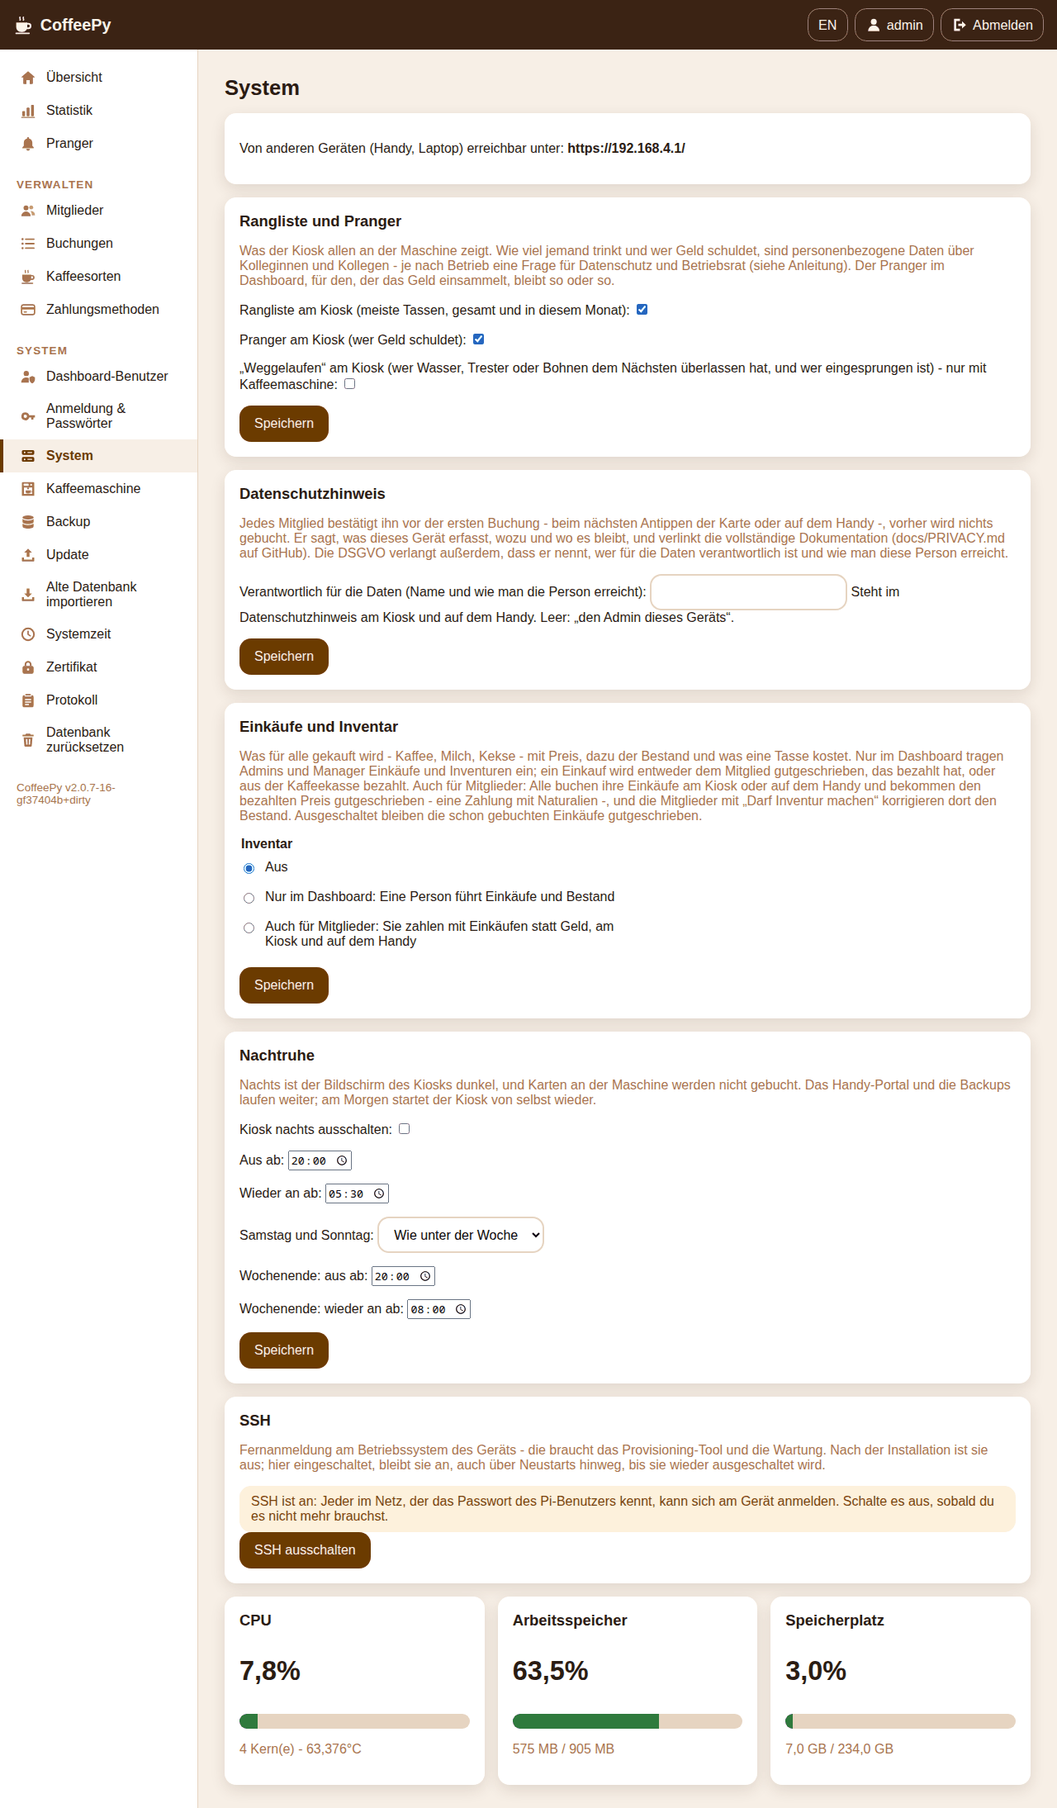
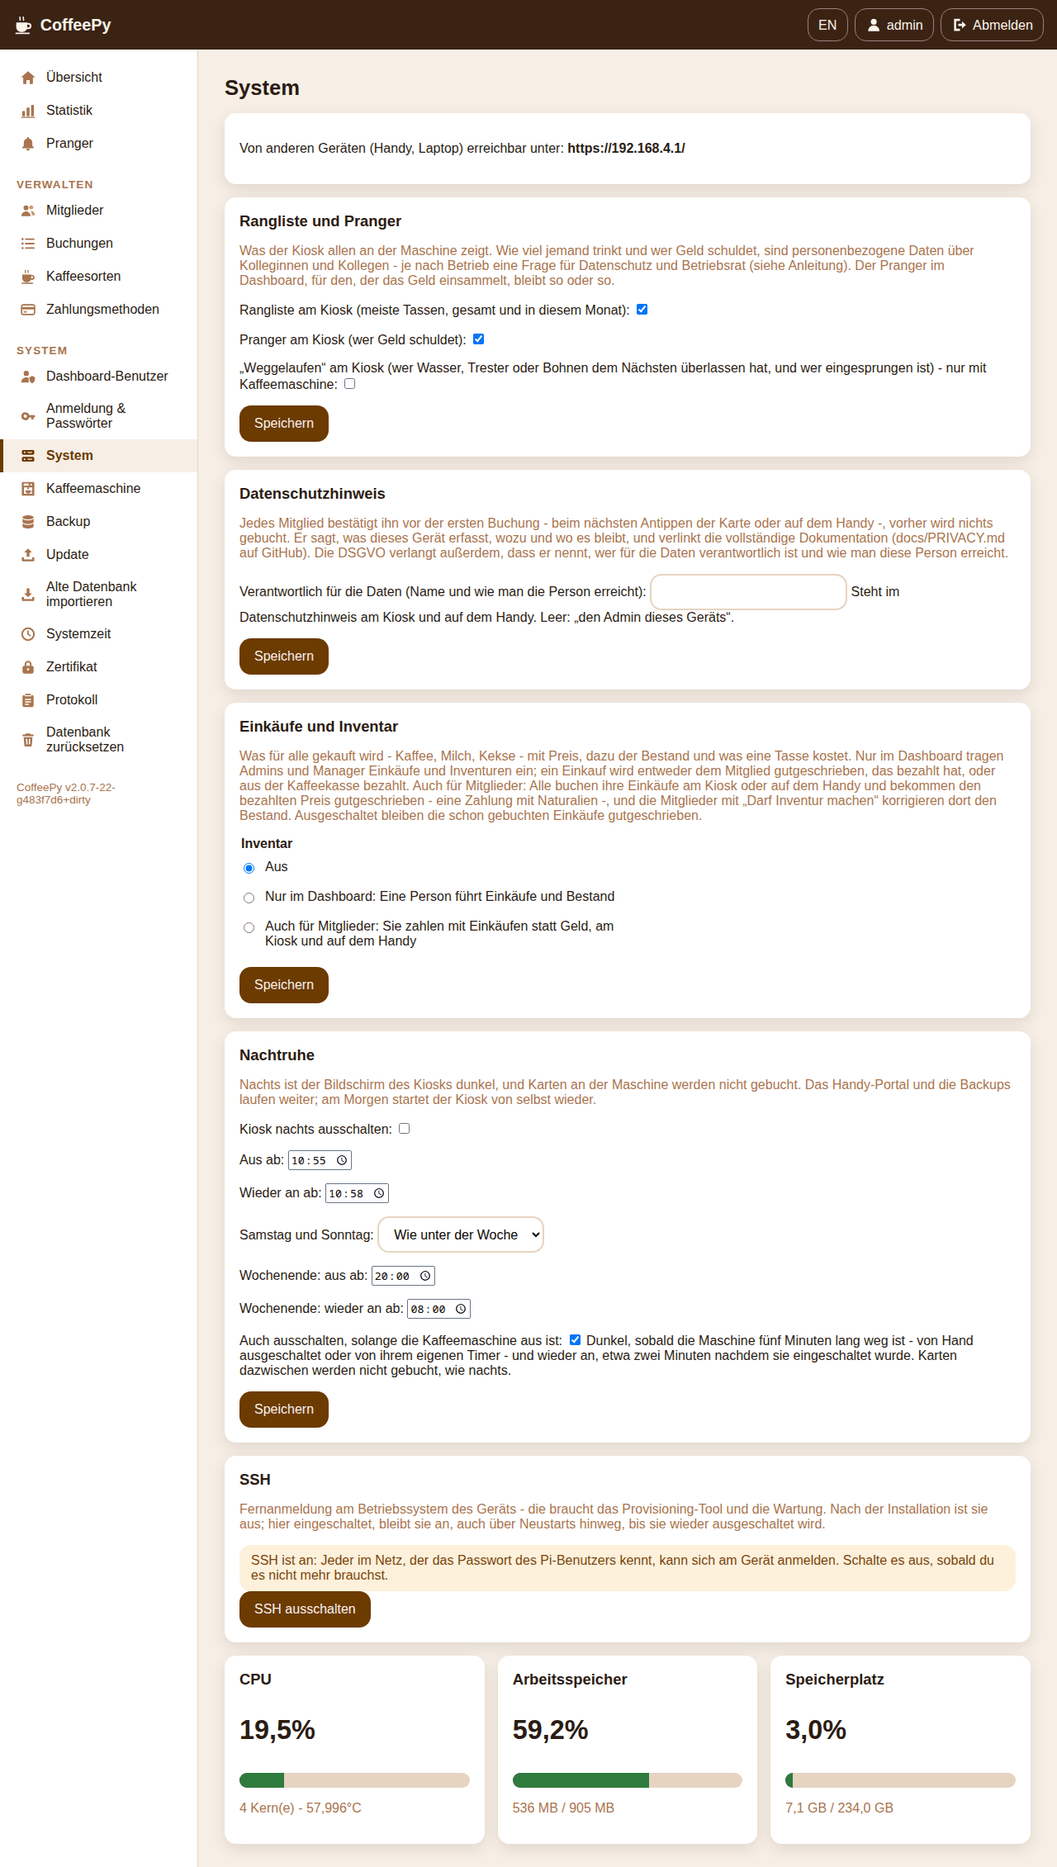
feat: Enhance machine status handling and update documentation for inventory management

diff --git a/kiosk/views.py b/kiosk/views.py
@@ -1006,7 +1006,8 @@ def machine_popup(request):
     return render(request, "kiosk/_machine_popup.html", {
         "level": machine.kiosk_level(), "status": current,
         "name": current["machine"].name or current["state"].get("model", ""), "model": current["state"].get("model", ""),
-        "messages": [machine.alert_label(k) for k in current["alerts"]],
+        # Only while connected: the state keeps the last messages, and "switching off" stood there all night.
+        "messages": [machine.alert_label(k) for k in current["alerts"]] if current["connected"] else [],
         "maintenance": [{"label": machine.MAINTENANCE_LABELS.get(k, k), "percent": v} for k, v in percent.items()],
         **machine.supply_levels(),
     })

diff --git a/kiosk/tests/test_machine_order.py b/kiosk/tests/test_machine_order.py
@@ -194,6 +194,8 @@ class MachineOrderTestCase(TestCase):
         self.assertContains(popup, "Fill the water tank")
         self.assertContains(popup, "Supplies")
         self.assertContains(self.client.post(reverse("kiosk:machine_refill")), "Beans refilled")
+        self.connect(connected=False, alerts=["fill_water"])  # the last messages stay in the state
+        self.assertNotContains(self.client.get(reverse("kiosk:machine_popup")), "Fill the water tank")
         CoffeeMachine.objects.filter(pk=1).update(driver="none")
         self.assertNotContains(self.panel(), "machine-btn")
 

diff --git a/docs/MANUAL.de.md b/docs/MANUAL.de.md
@@ -385,7 +385,9 @@ Ist eine JURA verbunden (siehe [Kaffeemaschine](#kaffeemaschine)), führt der Ki
 und **gebucht wird erst, wenn die Maschine fertig ist**. Nach **Jetzt bestellen** – oder wenn der
 Countdown abläuft – heißt es *Stell deine Tasse unter den Auslauf*, und erst **Start** lässt die
 Maschine loslaufen. Tippst du nicht auf **Start**, geht der Kiosk nach 30 Sekunden zurück: kein
-Kaffee, keine Buchung. **Abbrechen** tut dasselbe sofort.
+Kaffee, keine Buchung. **Abbrechen** tut dasselbe sofort. Neben der Tasse siehst du die Maschine – die
+Zeichnung ihrer Baureihe oder das Foto, das der Admin von ihr hochgeladen hat (siehe
+[Kaffeemaschine](#kaffeemaschine)).
 
 ![Tasse unter den Auslauf](pictures/manual/de/kiosk-cup.png)
 
@@ -402,7 +404,8 @@ ist das der einzige Weg dorthin.
 ![Startbildschirm mit Kaffeemaschine](pictures/manual/de/kiosk-wait-machine.png)
 
 Der **Ring** oben rechts zeigt, was die Maschine meldet, die vorhergesagten **Füllstände** und wie
-weit die **Pflege** ist. Hast du Bohnen aufgefüllt, tippe auf **Bohnen nachgefüllt** – Wassertank und
+weit die **Pflege** ist. Ihre Meldungen nur, solange sie verbunden ist: Ist sie aus, steht dort nur
+*Nicht verbunden*. Hast du Bohnen aufgefüllt, tippe auf **Bohnen nachgefüllt** – Wassertank und
 Trester merkt die Maschine von selbst.
 
 ![Zustand der Kaffeemaschine](pictures/manual/de/kiosk-machine-popup.png)
@@ -601,7 +604,8 @@ das Gerätezertifikat.
 **Kaffee bestellen** – der grüne Knopf auf **Start**, wenn eine Kaffeemaschine eingerichtet ist. Du
 wählst einen deiner Kaffees oder eine Sorte, die die Maschine macht, und tippst **Anstellen**: Du
 stehst dann in derselben [Warteschlange](#wenn-die-maschine-belegt-ist) wie alle am Kiosk. Geh mit
-deiner Tasse zur Maschine – ohne jemanden, der sie hinstellt, läuft nichts.
+deiner Tasse zur Maschine – ohne jemanden, der sie hinstellt, läuft nichts. Oben siehst du, welche
+Maschine es ist: ihre Zeichnung oder das Foto, das der Admin von ihr hochgeladen hat.
 
 ![Kaffee bestellen am Handy](pictures/manual/de/portal-order.png)
 
@@ -831,6 +835,11 @@ Maschine ändert sich nichts, der Kiosk bucht aus der Strichliste.
 starten**, ein USB-Stick nicht. Maschine einschalten, die JURA-App auf allen Handys schließen (eine
 verbundene Maschine lässt sich nicht finden), **Nach Maschinen suchen** und **Verbinden**.
 
+Das eingebaute Funkmodul des Pi teilt sich seinen Chip mit dem WLAN, das das Gerät für die Handys
+aufspannt: Die Verbindung zur Maschine bricht ab und zu ab, und der Chip kann hängen bleiben – das
+Gerät startet ihn dann selbst neu, und die Seite zeigt, wie oft das schon war. Ein
+**USB-Bluetooth-Stick** vermeidet all das.
+
 **Tasten der Maschine sperren**: Solange CoffeePy verbunden ist, lässt sich nichts an der
 Strichliste vorbei beziehen. Geht die Verbindung verloren, entsperrt sich die Maschine innerhalb
 einer Minute von selbst.
@@ -845,8 +854,19 @@ und seine Bohnen ab. Hier stellst du Tankgröße, Trester-Portionen und Bohnenbe
 **Nachgefüllt** setzt einen Füllstand zurück. Verschwindet die Meldung der Maschine – Tank wieder
 drin, Trester geleert –, füllt sich der Stand von selbst auf.
 
-Darunter: **Zähler** und **Pflege** der Maschine, **Gemachte Produkte** mit Verlauf und jedem
-einzelnen Bezug, und **Dem Nächsten überlassen** – welche Meldung während wessen Bezug kam und ob sich
+**Bild**: Jede JURA-Baureihe hat eine eigene Zeichnung (ENA, E, J, S, Z, GIGA, X …). Sie erscheint in
+der Übersicht, auf dieser Seite, am Kiosk – im Zustand der Maschine und beim Bezug – und im Portal
+unter *Kaffee bestellen*. **Foto hochladen** ersetzt sie überall durch ein Foto deiner eigenen
+Maschine – JPEG, PNG oder WebP; der Browser verkleinert es vorher (800 Pixel an der langen Seite), das
+Gerät nimmt bis 1,5 MB. **Foto entfernen** holt die Zeichnung zurück. Das Foto liegt in der
+Datenbank, ein Backup nimmt es also mit.
+
+Darunter: **Zähler** und **Pflege** der Maschine – wie weit jedes Pflegeprogramm fällig ist und
+*zuletzt am* welchem Tag es lief; **Gelaufene Pflegeprogramme** listet jedes Entkalken, Reinigen,
+jeden Filterwechsel und jede Milchsystem-Reinigung mit Datum (die Spülungen beim Ein- und Ausschalten
+zählen nicht). Dann **Gemachte Produkte** mit Verlauf und jedem einzelnen Bezug – mit Stärke, *extra
+heiß*, wie viele Sekunden er gedauert hat und, wenn ihn jemand an der Maschine gestoppt hat, *bei …%
+gestoppt*: gebucht wird er trotzdem. Und **Dem Nächsten überlassen** – welche Meldung während wessen Bezug kam und ob sich
 jemand darum gekümmert hat. Die Reihenfolge am Auslauf steht unter
 [Wenn die Maschine belegt ist](#wenn-die-maschine-belegt-ist).
 
@@ -866,7 +886,9 @@ Ausgeschaltet bleiben schon gebuchte Einkäufe als Gutschrift im Kontostand. Das
 Reiter:
 
 **Bestand**: was im Regal sein sollte – die letzte Inventur plus alles, was seitdem gekauft
-wurde; pro Tasse wird nichts abgezogen. Zum Zählen trägst du bei den Artikeln ein, was du gezählt
+wurde. Mit Kaffeemaschine, und wenn für einen Artikel der Verbrauch unter **Artikel** eingetragen ist,
+steht dabei, was die Maschine seit der Inventur verbraucht hat und wie viel etwa noch da sein sollte –
+Tassen an der Strichliste vorbei eingeschlossen; sonst wird pro Tasse nichts abgezogen. Zum Zählen trägst du bei den Artikeln ein, was du gezählt
 hast, und tippst **Inventur speichern**; ein leeres Feld lässt den Artikel, wie er ist. Darunter
 die letzten Inventuren und wer gezählt hat.
 
@@ -909,12 +931,20 @@ Bestellungen behalten ihren Preis. Die Rechnung im Einzelnen steht in
 Ein Artikel, der schon gekauft wurde, lässt sich nicht löschen; nimm stattdessen den Haken bei
 *Buchbar* heraus.
 
+Ist eine Kaffeemaschine verbunden, hat das Formular eines Artikels zusätzlich **Verbrauch der
+Kaffeemaschine**: wie viel davon jedes Produkt der Maschine verbraucht, in der Einheit des Artikels
+(0,008 für 8 g Bohnen, wenn in kg gezählt wird). **Vorschlag für Kaffeebohnen** füllt das aus der
+Portion unter **Kaffeemaschine** → *Füllstände* mal den Tassen des Produkts; **Vorschlag für Milch
+(geschätzt)** mit Schätzwerten – die Maschine meldet keine Milch, lass also am besten einmal einen
+Milchschaum in einen Messbecher laufen und korrigiere die Werte. Gespeichert wird erst mit
+**Speichern**.
+
 ![Inventar – Artikel](pictures/manual/de/dashboard-inventory-items.png)
 
 #### So rechnet das Inventar
 
 **Der Bestand** ist, was laut Buchungen im Regal sein sollte: die letzte Inventur eines Artikels
-plus alles, was seitdem gekauft wurde. Pro Tasse zieht CoffeePy nichts ab – es weiß ja nicht, wie
+plus alles, was seitdem gekauft wurde. Ohne Kaffeemaschine zieht CoffeePy pro Tasse nichts ab – es weiß ja nicht, wie
 viel Bohnen eine Tasse braucht oder wer Milch nimmt. Ohne Inventur ist der Bestand alles, was je
 gekauft wurde. Eine **Inventur** hält fest, was wirklich da ist, und ist ab dann der neue
 Ausgangspunkt; eine Zahl, die sich vertippt hat, korrigiert die nächste Inventur. Was verbraucht
@@ -935,7 +965,9 @@ Beträge dann zusammen:
    Großeinkauf, der noch im Schrank liegt, macht die Tasse so nicht teurer. Ohne zwei Inventuren
    zählt einfach, was im Zeitraum für den Artikel ausgegeben wurde.
 2. **Geteilt durch die Tassen derselben Zeit** – zwischen den beiden Inventuren bzw. im ganzen
-   Zeitraum. Gezählt werden Bezüge: Eine Kanne zählt zwei Tassen.
+   Zeitraum. Gezählt werden Bezüge: Eine Kanne zählt zwei Tassen. Mit einer Kaffeemaschine, deren
+   Zähler diese Zeit abdecken, gilt stattdessen ihre eigene Zählung – auch Tassen an der Strichliste
+   vorbei haben Bohnen und Milch verbraucht; Gratisprodukte wie heißes Wasser zählen nicht als Tassen.
 3. **Die Kosten pro Tasse** sind die Summe dieser Beträge über alle Artikel.
 
 **Milch, Kekse und alles andere werden gleichmäßig auf jede Tasse umgelegt**, ganz gleich, wer
@@ -1064,7 +1096,10 @@ Sonntag* wählst du *Wie unter der Woche*, *Den ganzen Tag aus* oder *Eigene Zei
 (*Wochenende: aus ab* / *wieder an ab*). Eine Nacht gehört zu dem Tag, an dem sie beginnt: Die
 Freitagnacht läuft bis Samstagmorgen nach den Zeiten unter der Woche, und nach einem ganz
 ausgeschalteten Sonntag kommt der Kiosk am Montag zu *Wieder an ab*. In der Nacht werden Karten an der
-Maschine **nicht gebucht** – auch nicht nachträglich am Morgen. Das Handy-Portal, die Backups
+Maschine **nicht gebucht** – auch nicht nachträglich am Morgen. Mit *Auch ausschalten, solange die
+Kaffeemaschine aus ist* wird der Kiosk zusätzlich dunkel, sobald die Maschine fünf Minuten weg ist –
+von Hand ausgeschaltet oder von ihrem eigenen Timer – und kommt etwa zwei Minuten nach dem Einschalten
+wieder; auch dazwischen wird nichts gebucht. Das Handy-Portal, die Backups
 und das Dashboard laufen weiter. Eine Änderung greift innerhalb einer Minute; sie steht als
 *night.update* im **Protokoll**.
 

diff --git a/docs/MANUAL.en.md b/docs/MANUAL.en.md
@@ -363,7 +363,8 @@ With a JURA connected (see [Coffee machine](#coffee-machine)), the kiosk guides 
 and **it is booked only once the machine is done**. After **Order now** – or when the countdown runs
 out – it says *Put your cup under the outlet*, and only **Start** sets the machine going. If you don't
 tap **Start**, the kiosk goes back after 30 seconds: no coffee, nothing booked. **Cancel** does the same
-right away.
+right away. Next to the cup you see the machine – the drawing of its product line, or the admin's photo
+of it (see [Coffee machine](#coffee-machine)).
 
 ![Put your cup under the outlet](pictures/manual/en/kiosk-cup.png)
 
@@ -379,7 +380,8 @@ no booking, up to five of them. With the machine's keys locked, this is the only
 ![Start screen with a coffee machine](pictures/manual/en/kiosk-wait-machine.png)
 
 The **ring** at the top right shows what the machine reports, the predicted **supplies** and how far
-its **maintenance** is. If you topped up the beans, tap **Beans refilled** – the machine notices the
+its **maintenance** is. Its messages only while it is connected: switched off, it just says *Not
+connected*. If you topped up the beans, tap **Beans refilled** – the machine notices the
 water tank and the grounds container by itself.
 
 ![State of the coffee machine](pictures/manual/en/kiosk-machine-popup.png)
@@ -562,7 +564,8 @@ something about you, an admin say, appear by their role only) – and the device
 **Order a coffee** – the green button on **Home**, when a coffee machine is set up. Pick one of your
 coffees or a sort the machine makes and tap **Get in line**: you are then in the same
 [line](#when-the-machine-is-taken) as everyone at the kiosk. Take your cup to the machine – nothing runs
-without someone to put it there.
+without someone to put it there. At the top you see which machine it is: its drawing, or the admin's
+photo of it.
 
 ![Ordering a coffee on the phone](pictures/manual/en/portal-order.png)
 
@@ -780,6 +783,10 @@ Bluetooth is switched on along the way. The Pi's built-in radio needs **Restart 
 stick doesn't. Switch the machine on, close the JURA app on every phone (a connected machine can't be
 found), **Search for machines** and **Connect**.
 
+The Pi's built-in radio shares its chip with the WiFi the device runs for the phones: the connection to
+the machine drops now and then, and the chip can get stuck – the device then restarts it by itself, and
+the page says how often that happened. A **USB Bluetooth stick** avoids all of it.
+
 **Lock the machine's own keys**: nothing can be brewed past the tally while CoffeePy is connected. If
 the connection is lost, the machine unlocks itself within a minute.
 
@@ -793,8 +800,19 @@ beans. Here you set the tank size, the grounds portions and the bean container; 
 level. When the machine's message goes away – tank back in, grounds emptied – the level refills by
 itself.
 
-Below that: the machine's **Counters** and **Maintenance**, **Products made** with a chart and every
-single brew, and **Left for the next one** – which message came during whose brew, and whether someone
+**Picture**: every JURA product line has a drawing of its own (ENA, E, J, S, Z, GIGA, X …), shown on
+the overview, on this page, on the kiosk – the machine's state and the brew screen – and on *Order a
+coffee* in the portal. **Upload photo** replaces it everywhere with a photo of your own machine – JPEG,
+PNG or WebP; the browser makes it small first (800 pixels on its long side), and the device takes up
+to 1.5 MB. **Remove photo** brings the drawing back. The photo is kept in the database, so a backup
+carries it along.
+
+Below that: the machine's **Counters** and **Maintenance** – how far each care programme is due and
+*last on* which day it ran; **Care programmes run** lists every descaling, cleaning, filter change and
+milk system cleaning with its date (the rinses when the machine is switched on and off don't count).
+Then **Products made** with a chart and every single brew – with its strength, *extra hot*, how many
+seconds it took and, if someone stopped it at the machine, *stopped at …%*: it is booked all the same.
+And **Left for the next one** – which message came during whose brew, and whether someone
 saw to it. The order at the outlet is explained under
 [When the machine is taken](#when-the-machine-is-taken).
 
@@ -812,8 +830,10 @@ cup really costs. The inventory only exists once an admin has switched it on und
 
 Switched off, purchases already booked stay credited in the balance. The inventory has five tabs:
 
-**Stock**: what should be on the shelf – the last stock-take plus everything bought since; nothing
-is taken off per cup. To count, enter what you counted for the items and tap **Save stock-take**;
+**Stock**: what should be on the shelf – the last stock-take plus everything bought since. With a
+coffee machine, and an item's consumption set under **Items**, it adds what the machine used since the
+stock-take and about how much should be left – cups past the tally included; otherwise nothing is
+taken off per cup. To count, enter what you counted for the items and tap **Save stock-take**;
 an empty field leaves the item as it is. Below, the recent stock-takes and who counted.
 
 ![Inventory – stock](pictures/manual/en/dashboard-inventory.png)
@@ -852,12 +872,19 @@ in detail is in [the calculations](CALCULATIONS.md#purchases-stock-and-the-price
 **Items**: what can be booked – name, *Unit* (*kg*, *l* …), *Can be booked* and *Order*. An item
 that has been bought can't be deleted; untick *Can be booked* instead.
 
+With a coffee machine connected, an item's form also has **Used by the coffee machine**: how much of
+the item each of the machine's products takes, in the item's unit (0.008 for 8 g of beans counted in
+kg). **Suggest for coffee beans** fills it in from the portion under **Coffee machine** → *Supplies*
+times the product's cups; **Suggest for milk (estimated)** with estimates – the machine doesn't report
+milk, so best let one milk foam run into a measuring jug once and correct the values. Nothing is saved
+before **Save**.
+
 ![Inventory – items](pictures/manual/en/dashboard-inventory-items.png)
 
 #### How the inventory reckons
 
 **The stock** is what should be on the shelf according to the bookings: an item's last stock-take
-plus everything bought since. CoffeePy takes nothing off per cup – it doesn't know how many beans
+plus everything bought since. Without a coffee machine CoffeePy takes nothing off per cup – it doesn't know how many beans
 a cup takes or who has milk. Without a stock-take, the stock is everything ever bought. A
 **stock-take** records what is really there and is the new starting point from then on; a number
 that was mistyped is put right by the next stock-take. What was used follows from two stock-takes:
@@ -878,7 +905,9 @@ are then added up:
    cupboard doesn't make the cup dearer that way. Without two stock-takes, simply what was spent
    on the item in the period counts.
 2. **Divided by the cups of the same time** – between the two stock-takes, or over the whole
-   period. Machine strokes are counted: a jug is two cups.
+   period. Machine strokes are counted: a jug is two cups. With a coffee machine whose counters cover
+   that time, its own count is taken instead – cups past the tally used beans and milk too; free
+   products such as hot water don't count as cups.
 3. **The cost per cup** is the sum of these amounts over all items.
 
 **Milk, cookies and everything else are spread evenly over every cup**, whoever has milk or eats a
@@ -997,7 +1026,9 @@ choose *Like the weekdays*, *Off all day* or *Times of its own* (*Weekend: off f
 from*). A night belongs to the day it starts on: Friday night runs to Saturday morning by the
 weekday times, and after a Sunday that was off all day the kiosk comes back on Monday at *On
 again from*. At night, cards at the machine are **not booked** – not later in the morning
-either. The phone portal, the backups and the dashboard keep running. A change takes effect
+either. With *Also switch it off while the coffee machine is off* the kiosk also goes dark once the
+machine has been gone for five minutes – switched off by hand or by its own timer – and comes back
+within about two minutes of switching it on; taps in between aren't booked either. The phone portal, the backups and the dashboard keep running. A change takes effect
 within a minute and shows up in the **Audit log** as *night.update*.
 
 **System time**: only needed when the clock module is missing or wrong. The new time is

diff --git a/docs/CALCULATIONS.md b/docs/CALCULATIONS.md
@@ -162,10 +162,21 @@ from the coffee box** (dashboard only) creates no payment: it counts in the stoc
 the costs and the statistics' purchases bar, in nobody's balance.
 
 ```
-stock = newest stock-take + quantity bought since      (nothing is taken off per cup)
+stock = newest stock-take + quantity bought since      (nothing is taken off per order)
 ```
 
-Without a stock-take the stock is everything ever bought.
+Without a stock-take the stock is everything ever bought. **With a coffee machine** and an item's
+consumption per product set (dashboard → Inventory → Items, "Used by the coffee machine"), the
+dashboard's stock page adds:
+
+```
+machine used = Σ over its products: products made since the stock-take × amount per product
+expected     = stock − machine used                    (never below 0)
+```
+
+"Products made" comes from the machine's own counters (`services.machine_counted`), added up reading
+by reading: a reading of another machine, or one whose total went down, starts afresh from itself.
+It includes what was brewed past the tally. Kiosk and portal show the plain stock.
 
 **Costs** (dashboard → Inventory → Costs) cover the last 3, 6 or 12 months. Every item is
 reckoned over its own stretch:
@@ -180,7 +191,10 @@ otherwise:
   cost     = sum of the item's purchase prices in the period
   stretch  = the whole period
 
-per cup (item)  = cost ÷ strokes ordered in the item's stretch
+per cup (item)  = cost ÷ cups in the item's stretch
+cups            = the machine's own count, where its counters cover the stretch - each product
+                  times its strokes, free products (hot water, milk foam) not counted;
+                  otherwise the strokes ordered
 cost per cup    = sum over all items
 ```
 

diff --git a/CLAUDE.md b/CLAUDE.md
@@ -252,6 +252,12 @@ send commands with one publish each (`coffee/machine.py`), and every page reads 
   itself (`policy.BrewChain`: the next once the machine is idle and says `coffee_ready`), one dispense row
   and one order per cup, at the sort's price - a cup that fails ends the chain. With the sorts hidden behind
   the slots, a slot is what is preselected: the auto-checkout must never book something out of sight.
+- **Its picture** (`coffee/machine_image.py`): the drawing of its JURA line, found from py-jura's model name
+  (`static/machines/`, drawn by `scripts/make_machine_images.py` - `test_machine_image` compares the files with
+  the script), or the admin's photo, kept in the database (a backup carries it). The image has no Pillow: the
+  dashboard's page downsizes the photo in the browser, the server only checks type and size. It is served at
+  `/machine-photo/<digest>.<ext>` without a login - the kiosk on 8443 needs it as much as the phones - and its
+  URL changes only with the photo, so the brew screen stays byte-identical.
 - **One line for the machine** (`coffee/turns.py`, `MachineTurn`): every brew for a member - kiosk or phone
   (portal → Order a coffee) - takes a turn; the first one while the machine is free is called and has
   `TURN_SECONDS` to press Start, at the kiosk after a card tap or on the phone. Free products wait while
